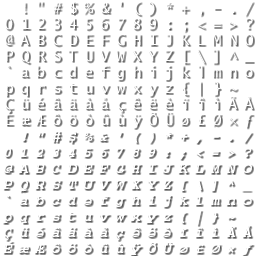
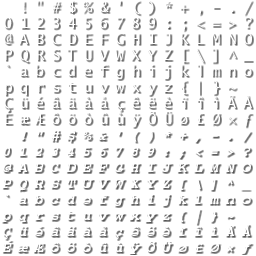
Avoid unnecessary dynamic memory allocations in Skeleton::GetBoneMatrices, SkinnedCharacter::GetRenderInfo, and DSNMaterial draw functions Moved the font up and left one pixel to fix drop shadows extending into the next character Dood now has a bool alive which is used in most places where previousl

Changed region(s): [[0.0, 0.0, 1.0, 1.0], [0.8438, 0.0312, 0.875, 0.0625], [0.4688, 0.0, 0.5, 0.0312]]

diff --git a/TestProject/Dood.cpp b/TestProject/Dood.cpp
@@ -58,6 +58,7 @@ namespace Test
 		pitch(0),
 		jump_start_timer(0),
 		hp(1.0f),
+		alive(true),
 		eye_bone(NULL),
 		model(model),
 		character(NULL),
@@ -226,7 +227,7 @@ namespace Test
 		this->vel = vel;
 
 
-		if(hp > 0)
+		if(alive)
 		{
 			DoMovementControls(time, forward, rightward);
 			DoJumpControls(time, forward, rightward);
@@ -237,7 +238,7 @@ namespace Test
 
 		PoseCharacter(time);
 
-		if(hp > 0)
+		if(alive)
 			DoWeaponControls(time);
 
 		posey->UpdatePoses(time);
@@ -378,7 +379,7 @@ namespace Test
 			PreUpdatePoses(time);
 			posey->UpdatePoses(TimingInfo(timestep, now));
 
-			if(hp > 0)
+			if(alive)
 			{
 				unsigned int num_bodies = rigid_bodies.size();
 
@@ -449,6 +450,7 @@ namespace Test
 		physics = game_state->physics_world;
 
 		collision_group = new CollisionGroup(this);
+		physics->AddCollisionObject(collision_group);
 
 		unsigned int count = mphys->bones.size();
 
@@ -498,8 +500,6 @@ namespace Test
 					root_rigid_body = rigid_body;
 			}
 		}
-
-		physics->AddCollisionObject(collision_group);
 
 		// create constraints between bones
 		for(vector<ModelPhysics::JointPhysics>::iterator iter = mphys->joints.begin(); iter != mphys->joints.end(); ++iter)
@@ -626,6 +626,8 @@ namespace Test
 
 		if(this != ((TestGame*)game_state)->player_pawn)
 			controller->is_valid = false;
+
+		alive = false;
 	}
 
 	bool Dood::GetAmmoFraction(float& result)

diff --git a/CibraryEngine/CollisionGroup.cpp b/CibraryEngine/CollisionGroup.cpp
@@ -88,7 +88,6 @@ namespace CibraryEngine
 	void CollisionGroup::InitiateCollisions(float timestep, vector<ContactPoint>& contact_points)
 	{
 		// do collisions between contained objects, if enabled
-		// TODO: don't do disabled collisions!
 		if(collide_within)
 		{
 			for(boost::unordered_set<RigidBody*>::iterator iter = children.begin(), children_end = children.end(); iter != children_end; ++iter)
@@ -149,6 +148,8 @@ namespace CibraryEngine
 
 	void CollisionGroup::CollideRigidBody(RigidBody* body, vector<ContactPoint>& contact_points)
 	{
+		// TODO: consult disabled_collisions for child-other collisions?
+
 		AABB body_aabb = body->GetCachedAABB();
 		bool aabb_exempt = body->GetShapeType() == ST_InfinitePlane;
 
@@ -162,6 +163,8 @@ namespace CibraryEngine
 
 	void CollisionGroup::CollideCollisionGroup(CollisionGroup* other, vector<ContactPoint>& contact_points)
 	{
+		// TODO: consult disabled_collisions for child-group and child-other-child collisions?
+
 		for(boost::unordered_set<RigidBody*>::iterator iter = children.begin(); iter != children.end(); ++iter)
 		{
 			RigidBody* ibody = *iter;

diff --git a/CibraryEngine/SkeletalAnimation.cpp b/CibraryEngine/SkeletalAnimation.cpp
@@ -106,15 +106,11 @@ namespace CibraryEngine
 		return NULL;
 	}
 
-	vector<Mat4> Skeleton::GetBoneMatrices()
+	void Skeleton::GetBoneMatrices(vector<Mat4>& results)
 	{
-		unsigned int bones_count = bones.size();
-
-		vector<Mat4> matrices = vector<Mat4>();
+		results.clear();
 		for(vector<Bone*>::iterator iter = bones.begin(); iter != bones.end(); ++iter)
-			matrices.push_back((*iter)->GetTransformationMatrix());
-
-		return matrices;
+			results.push_back((*iter)->GetTransformationMatrix());
 	}
 
 	void Skeleton::InvalidateCachedBoneXforms()
@@ -297,7 +293,8 @@ namespace CibraryEngine
 	{
 		if(render_info.bone_matrices == NULL)
 		{
-			vector<Mat4> matrices = skeleton->GetBoneMatrices();
+			static vector<Mat4> matrices;
+			skeleton->GetBoneMatrices(matrices);
 
 			render_info.bone_matrices = SkinnedCharacter::MatricesToTexture1D(matrices, mat_tex_precision);
 			render_info.mat_tex_precision = mat_tex_precision;

diff --git a/CibraryEngine/DSNMaterial.cpp b/CibraryEngine/DSNMaterial.cpp
@@ -52,7 +52,7 @@ namespace CibraryEngine
 	void DSNMaterial::BeginDraw(SceneRenderer* renderer)
 	{
 		scene = renderer;
-		node_data = vector<DSNMaterialNodeData*>();
+		node_data.clear();
 
 		GLDEBUG();
 	}
@@ -121,6 +121,8 @@ namespace CibraryEngine
 		glColorMask(color_mask[0], color_mask[1], color_mask[2], color_mask[3]);
 
 		GLDEBUG();
+
+		node_data.clear();
 	}
 
 	void DrawNodeData(DSNMaterialNodeData* data, ShaderProgram* use_shader)

diff --git a/TestProject/TestGame.cpp b/TestProject/TestGame.cpp
@@ -1386,7 +1386,7 @@ namespace Test
 			TestGame* gs = (TestGame*)lua_touserdata(L, 1);
 			lua_pop(L, 1);
 
-			struct : EntityQualifier { bool Accept(Entity* ent) { return dynamic_cast<Dood*>(ent) != NULL; } } doods_only;
+			struct : EntityQualifier { bool Accept(Entity* ent) { return dynamic_cast<Dood*>(ent) != NULL && ((Dood*)ent)->alive; } } doods_only;
 			EntityList e = gs->GetQualifyingEntities(doods_only);
 
 			// begin table

diff --git a/TestProject/CrabWeapon.cpp b/TestProject/CrabWeapon.cpp
@@ -70,9 +70,8 @@ namespace Test
 
 			float damage_amount = dist < inner_r ? full_damage : (outer_r - dist) * coeff;
 			CrabShot shot(game_state, owner, damage_location, Vec3(), damage_amount);
-			//dood->GetShot(&shot, damage_location, Vec3());
 
-			// TODO: make this work again
+			dood->shootables[0]->GetShot(&shot, damage_location, Vec3());
 		}
 
 		attack_wait = attack_interval;

diff --git a/CibraryEngine/SkeletalAnimation.h b/CibraryEngine/SkeletalAnimation.h
@@ -82,7 +82,7 @@ namespace CibraryEngine
 			/** Writes a skeleton from a stream, and returns 0 if ok or an int error code */
 			static int WriteSkeleton(ostream& file, Skeleton* skeleton);
 
-			vector<Mat4> GetBoneMatrices();
+			void GetBoneMatrices(vector<Mat4>& results);
 
 			void InvalidateCachedBoneXforms();
 	};

diff --git a/TestProject/CrabBug.cpp b/TestProject/CrabBug.cpp
@@ -145,7 +145,7 @@ namespace Test
 	{
 #if 0
 		if(time.total > 1.0f)
-			TakeDamage(Damage(NULL, 2.0f), Vec3());
+			Die(Damage(NULL, 1.0f));
 #endif
 
 		Dood::Update(time);

diff --git a/TestProject/Dood.h b/TestProject/Dood.h
@@ -63,6 +63,7 @@ namespace Test
 			float jump_start_timer;
 
 			float hp;
+			bool alive;
 
 			Bone* eye_bone;
 
